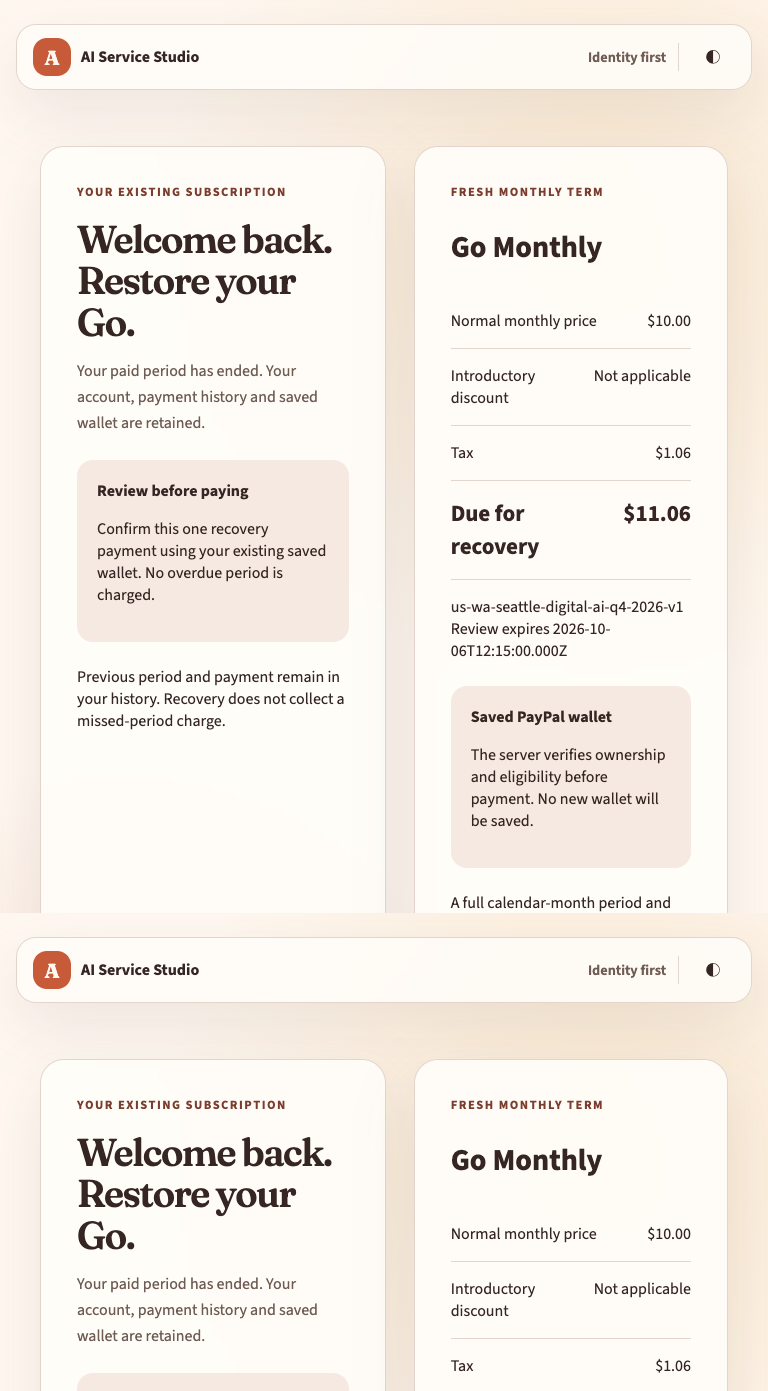
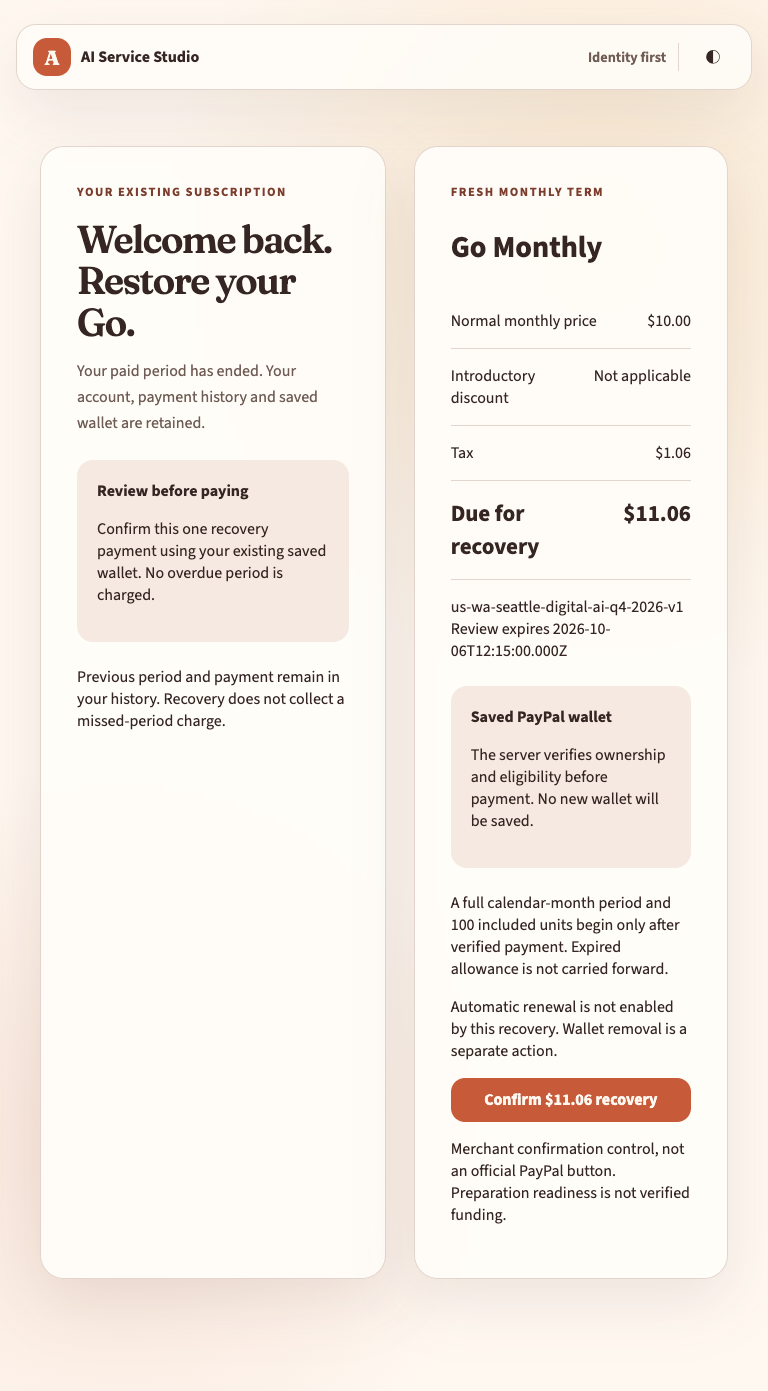
Fix TASK-0011 historical confirmed recovery state

diff --git a/demos/ai-service-subscription-pilot/tests/e2e/reactivation.spec.ts b/demos/ai-service-subscription-pilot/tests/e2e/reactivation.spec.ts
@@ -4,6 +4,7 @@ import {resolve} from "node:path";
 import {mkdirSync} from "node:fs";
 import {seedRecoveryFixture,task0011Now,type RecoveryFixtureKind} from "./support/task0011-fixture.js";
 import axe from "axe-core";
+import {reactivationEntrySchema} from "../../shared/src/reactivation.js";
 async function open(page:Page,kind:RecoveryFixtureKind,riskReady=true){
  const identity=await seedRecoveryFixture(kind);
  await page.clock.install({time:task0011Now});
@@ -14,7 +15,7 @@ async function open(page:Page,kind:RecoveryFixtureKind,riskReady=true){
 }
 test("owned expired entry, reviewed normal price, verified term, refresh and management",async({page},info)=>{
  const requests:string[]=[];page.on("request",r=>{if(new URL(r.url()).pathname.includes("/api/"))requests.push(new URL(r.url()).pathname);});
- await open(page,"confirmed");await expect(page.getByRole("heading",{name:"Welcome back. Restore your Go."})).toBeVisible();
+ const identity=await open(page,"confirmed");await expect(page.getByRole("heading",{name:"Welcome back. Restore your Go."})).toBeVisible();
  await expect(page.locator(".payment-method")).toHaveCount(0);
  const directory=resolve("tracking/tasks/TASK-0011/artifacts");mkdirSync(directory,{recursive:true});await page.screenshot({path:resolve(directory,`${info.project.name}-expired.png`),fullPage:true});
  expect(requests).not.toContain("/api/v1/me/activation");expect(requests.some(p=>p.endsWith("/confirm"))).toBe(false);
@@ -23,12 +24,14 @@ test("owned expired entry, reviewed normal price, verified term, refresh and man
  await expect(page.getByText("Not applicable",{exact:true})).toBeVisible();
  for(const width of [375,768,1024,1440])for(const theme of ["light","dark"]){
   await page.setViewportSize({width,height:1000});await page.evaluate(theme=>{document.documentElement.dataset.theme=theme;},theme);
+  if(width===768&&theme==="light")await page.evaluate(async()=>{await document.fonts.ready;window.scrollTo(0,0);await new Promise<void>(done=>requestAnimationFrame(()=>requestAnimationFrame(()=>done())));});
   expect(await page.evaluate(()=>document.documentElement.scrollWidth<=document.documentElement.clientWidth)).toBe(true);
-  await page.screenshot({path:resolve(directory,`${info.project.name}-review-${width}-${theme}.png`),fullPage:true});
+  await page.screenshot({path:resolve(directory,`${info.project.name}-review-${width}-${theme}.png`),fullPage:true,animations:"disabled"});
  }
  expect(await page.evaluate(async()=>(await (window as unknown as {axe:typeof axe}).axe.run(".reactivation-main")).violations.map(v=>({id:v.id,impact:v.impact})))).toEqual([]);
  await confirm.focus();await expect(confirm).toBeFocused();await page.keyboard.press("Enter");
  await expect(page.getByRole("heading",{name:"#Generate Answer"})).toBeVisible();
+ expect(await page.evaluate(key=>sessionStorage.getItem(key),`go-recovery-${identity.arrangementId}`)).toBeNull();
  await expect(page.locator(".payment-method")).toContainText("PayPal Wallet");
  await page.screenshot({path:resolve(directory,`${info.project.name}-recovered.png`),fullPage:true});
  await page.reload();await expect(page.getByRole("heading",{name:"#Generate Answer"})).toBeVisible();
@@ -46,4 +49,23 @@ test("failed risk preparation never enables a payment",async({page})=>{
 });
 test("quote expiry removes confirmation and requires another explicit review",async({page})=>{
  await open(page,"confirmed");await page.getByRole("button",{name:"Review recovery payment"}).click();await expect(page.getByRole("button",{name:"Confirm $11.06 recovery"})).toBeEnabled();await page.clock.fastForward(16*60*1000);await expect(page.getByRole("button",{name:/Confirm .* recovery/})).toHaveCount(0);await expect(page.getByRole("button",{name:"Review recovery payment"})).toBeVisible();await expect(page.getByRole("alert")).toContainText("This review expired");
+});
+for(const scenario of ["later expiry","delayed expired confirmation"] as const)test(`${scenario} retires historical confirmed state without an automatic payment`,async({page})=>{
+ const identity=await open(page,scenario==="later expiry"?"confirmed":"pending");
+ await page.getByRole("button",{name:"Review recovery payment"}).click();const fundedResponse=page.waitForResponse(response=>response.url().endsWith("/reactivation/confirm"));await page.getByRole("button",{name:"Confirm $11.06 recovery"}).click();
+ if(scenario==="later expiry")await expect(page.getByRole("heading",{name:"#Generate Answer"})).toBeVisible();
+ else await expect(page.getByText("No new allowance has been granted. Do not pay again while this payment is being checked.")).toBeVisible();
+ const key=`go-recovery-${identity.arrangementId}`;const operationId=(await(await fundedResponse).json()).operationId as string;
+ if(scenario==="later expiry")await page.evaluate(({key,operationId})=>sessionStorage.setItem(key,operationId),{key,operationId});
+ expect(await page.evaluate(key=>sessionStorage.getItem(key),key)).toBe(operationId);
+ const expired=reactivationEntrySchema.parse({state:"expired",arrangementId:identity.arrangementId,paidThrough:"2026-11-06T13:00:00.000Z",timeZone:"America/Los_Angeles",wallet:{label:"Saved PayPal wallet",eligible:true},canReview:true,blocker:"none"});
+ // Advance the external owned-entry/status boundary while leaving stored paid
+ // history intact. The production browser components, not a view double, run.
+ await page.clock.setSystemTime(new Date("2026-11-08T12:00:00Z"));
+ await page.route("**/api/v1/me/summary",route=>route.fulfill({status:404,json:{error:{code:"not_found"}}}));
+ await page.route("**/api/v1/me/reactivation",route=>route.fulfill({json:expired}));
+ if(scenario==="delayed expired confirmation")await page.route(`**/api/v1/me/reactivation/operations/${operationId}`,route=>route.fulfill({json:{operationId,state:"confirmed",term:{startsAt:"2026-10-06T12:00:00.000Z",endsAt:"2026-11-06T13:00:00.000Z",timeZone:"America/Los_Angeles",includedUnits:100}}}));
+ const payments:string[]=[];page.on("request",request=>{if(request.method()==="POST")payments.push(new URL(request.url()).pathname);});
+ await page.reload();await expect(page.getByRole("button",{name:"Review recovery payment"})).toBeEnabled();await expect(page.getByText("New period verified",{exact:true})).toHaveCount(0);await expect(page.getByRole("heading",{name:"#Generate Answer"})).toHaveCount(0);
+ expect(await page.evaluate(key=>sessionStorage.getItem(key),key)).toBeNull();expect(payments).toEqual([]);
 });

diff --git a/demos/ai-service-subscription-pilot/web/src/components/workspace/reactivation-review.tsx b/demos/ai-service-subscription-pilot/web/src/components/workspace/reactivation-review.tsx
@@ -26,9 +26,9 @@ export function ReactivationRecovery({entry,token,onRecovered}:{entry:Reactivati
  const storageKey=`go-recovery-${entry.arrangementId}`;const [prior]=useState(()=>sessionStorage.getItem(storageKey));
  const [review,setReview]=useState<ReactivationReview|null>(null);const [outcome,setOutcome]=useState<ReactivationOutcome|null>(null);const [ready,setReady]=useState(false);const [busy,setBusy]=useState(Boolean(prior));const [error,setError]=useState<string|null>(null);const claimed=useRef(Boolean(prior));const [metadata]=useState(()=>crypto.randomUUID().replaceAll("-",""));
  const restored=useRef(onRecovered);useEffect(()=>{restored.current=onRecovered;},[onRecovered]);
- useEffect(()=>{if(!prior)return;let active=true;void demoApi.readReactivationOutcome(prior,token).then(result=>{if(active){setOutcome(result);if(result.state==="confirmed")restored.current();}},()=>{if(active)setError("The previous payment status is unavailable. Do not pay again.");}).finally(()=>{if(active)setBusy(false);});return()=>{active=false;};},[token,prior]);
+ useEffect(()=>{if(!prior)return;let active=true;void demoApi.readReactivationOutcome(prior,token).then(result=>{if(active){setOutcome(result);if(result.state==="confirmed"){sessionStorage.removeItem(storageKey);restored.current();}}},()=>{if(active)setError("The previous payment status is unavailable. Do not pay again.");}).finally(()=>{if(active)setBusy(false);});return()=>{active=false;};},[token,prior,storageKey]);
  async function openReview(){if(busy||claimed.current)return;setBusy(true);setReady(false);setError(null);try{setReview(await demoApi.reviewReactivation({arrangementId:entry.arrangementId,...(review?{currentQuoteId:review.quoteId}:{})},token));}catch{setError("Recovery review is not available. No payment was submitted.");}finally{setBusy(false);}}
- async function confirm(){if(!review||!ready||busy||claimed.current)return;if(Date.parse(review.expiresAt)<=Date.now()){setReady(false);setError("This review expired. A new review and confirmation are required.");return;}claimed.current=true;setBusy(true);setError(null);try{let result=await demoApi.confirmReactivation({arrangementId:entry.arrangementId,quoteId:review.quoteId,confirmed:true,clientMetadataId:metadata},token);sessionStorage.setItem(storageKey,result.operationId);setOutcome(result);if(result.state==="pending"){result=await demoApi.readReactivationOutcome(result.operationId,token);setOutcome(result);}if(result.state==="confirmed")onRecovered();}catch(e){if(e instanceof ApiRequestError&&e.status===409&&e.code==="stale_quote"){claimed.current=false;setReview(null);setReady(false);setError("The quote changed or expired. Review the current amount and confirm again.");}else setError("Payment status could not be confirmed. No new allowance is shown. Do not pay again; refresh to check the retained state.");}finally{setBusy(false);}}
+ async function confirm(){if(!review||!ready||busy||claimed.current)return;if(Date.parse(review.expiresAt)<=Date.now()){setReady(false);setError("This review expired. A new review and confirmation are required.");return;}claimed.current=true;setBusy(true);setError(null);try{let result=await demoApi.confirmReactivation({arrangementId:entry.arrangementId,quoteId:review.quoteId,confirmed:true,clientMetadataId:metadata},token);sessionStorage.setItem(storageKey,result.operationId);setOutcome(result);if(result.state==="pending"){result=await demoApi.readReactivationOutcome(result.operationId,token);setOutcome(result);}if(result.state==="confirmed"){sessionStorage.removeItem(storageKey);onRecovered();}}catch(e){if(e instanceof ApiRequestError&&e.status===409&&e.code==="stale_quote"){claimed.current=false;setReview(null);setReady(false);setError("The quote changed or expired. Review the current amount and confirm again.");}else setError("Payment status could not be confirmed. No new allowance is shown. Do not pay again; refresh to check the retained state.");}finally{setBusy(false);}}
  useEffect(()=>{if(!review)return;const timer=setTimeout(()=>{setReady(false);setReview(null);setError("This review expired. Review the current amount before confirming.");},Math.max(0,Date.parse(review.expiresAt)-Date.now()));return()=>clearTimeout(timer);},[review]);
  return <ReactivationView entry={entry} review={review} outcome={outcome} busy={busy} ready={ready} error={error} onReview={()=>void openReview()} onConfirm={()=>void confirm()} preparation={review&&!outcome&&!busy&&!error?<FraudNetPreparation bootstrap={review.fraudNet} clientMetadataId={metadata} nonce={document.querySelector('meta[name="csp-nonce"]')?.getAttribute('content')??""} onReady={()=>setReady(true)} onFailure={()=>setError("Risk preparation could not load. No payment was submitted.")}/>:null}/>;
 }

diff --git a/demos/ai-service-subscription-pilot/web/src/routes/workspace.tsx b/demos/ai-service-subscription-pilot/web/src/routes/workspace.tsx
@@ -143,7 +143,7 @@ export function WorkspaceRoute() {
     return () => { active = false; };
   }, [restoration]);
 
-  if(expired&&token)return <ReactivationRecovery entry={expired} token={token} onRecovered={()=>setRestoration(value=>value+1)}/>;
+  if(expired&&token)return <ReactivationRecovery entry={expired} token={token} onRecovered={()=>{setExpired(null);setSummary(null);setRestoration(value=>value+1);}}/>;
 
   if (!summary) {
     return <main className="route-status" aria-busy={!error}>{error ? <p role="alert">{error}</p> : <p>Restoring your Go workspace…</p>}</main>;

diff --git a/demos/ai-service-subscription-pilot/tracking/tasks/TASK-0011/execution.md b/demos/ai-service-subscription-pilot/tracking/tasks/TASK-0011/execution.md
@@ -61,3 +61,19 @@ Screenshots are in [artifacts](artifacts/): review at all required widths/themes
 The owned task HTTP server and cluster were stopped; read-only checks found no listener on 3111 or 55411. Diagnostic directories remain for investigation; no recursive deletion, prior database reuse, inverse DDL or paid-history deletion occurred. Pre-existing `test-results/` and raw `task0011-test-results/` stay untracked and excluded from the candidate.
 
 Independent same-candidate spec/quality reviews remain root-owned and pending. Local fake provider/auth with real PostgreSQL is not exact merchant/token provider proof, hosted funding, real risk readiness, real OTP or real wallet deletion. No hosted schema/data, provider mutation, push, deployment, PR or merge occurred. Rollback is a scoped local commit reversal preserving unrelated work; once recovery data exists, schema corrections must be forward-only.
+
+## Bounded specification-review repair — 2026-10-07
+
+Status remains `needs_review`, not self-approval. Repair base is rejected candidate `689f61faf67d4a14f9506cbd5f018b511047c0cf`; root records role10/15, implementation round3/6 without a midnight counter reset. Primary `spec-review.md` is unchanged. Exact repaired candidate hash is appended to the primary execution receipt after the local repair commit.
+
+Important finding: confirmed browser operation state survived indefinitely and blocked a later eligible expired entry, including delayed confirmation whose independently verified term had already ended. Both UI result paths now retire only a confirmed session locator. Workspace restoration unmounts the old recovery state while fetching authoritative owned summary/entry; only that refreshed entry's `canReview` permits fresh explicit review. Pending/action-required/failed/unknown handling remains retained and non-retrying. No backend payment, funding history, term calculation or allowance behavior changed.
+
+Focused regression proof runs the actual production browser components. The later-expiry scenario starts with a real locally confirmed operation and injects the legacy retained locator; the delayed scenario starts with a real local pending operation and supplies its historical confirmed status. Controlled future owned-entry/status API responses model November expiry without advancing the task server's fixed fixture clock or altering database history. Both assert a fresh explicit review, retirement of historical confirmed UI state and no automatic POST/payment. Existing confirmation proof also asserts newly confirmed locators are removed; all unresolved refresh/no-retry tests still execute.
+
+Red command: existing `env -i ... node tests/e2e/support/task0011-local.mjs verify` on fresh `tcLLMC`: core658/658 green; browser84 passed /4 expected lifecycle failures /6 historical skips. Both new scenarios failed at missing Review recovery payment in desktop and mobile, not at setup.
+
+Green command: identical full approved verification on fresh `/private/tmp/task0011-postgres-J5rMOz`: typecheck/lint passed;658 tests/57 files, zero DB skips; migration forced rollback/history and32 SQL negatives passed; server/offline web build passed; browser**88 passed /0 failed /6 historical skips,94 total**. All owned processes stopped; no listeners3111/55411. Diagnostics retained.
+
+Minor finding: `chromium-review-768-light.png` recaptured after fonts/layout frames settled with screenshot animations disabled. Direct full-image inspection confirms one header, complete panels and visible confirmation/lower copy. No redesign. The full runner regenerates existing visual outputs; incidental executor-generated rewrites were restored to the reviewed base so only this named artifact changes in the repair.
+
+Repair diff is limited to `web/src/components/workspace/reactivation-review.tsx`, `web/src/routes/workspace.tsx`, `tests/e2e/reactivation.spec.ts`, this appended report and the named screenshot. Tracked source is verified; raw results remain excluded. Hosted/provider/OTP/deletion proof remains unclaimed. Both review lanes must inspect the exact repaired commit; prior rejection is not overwritten or treated as approval.
